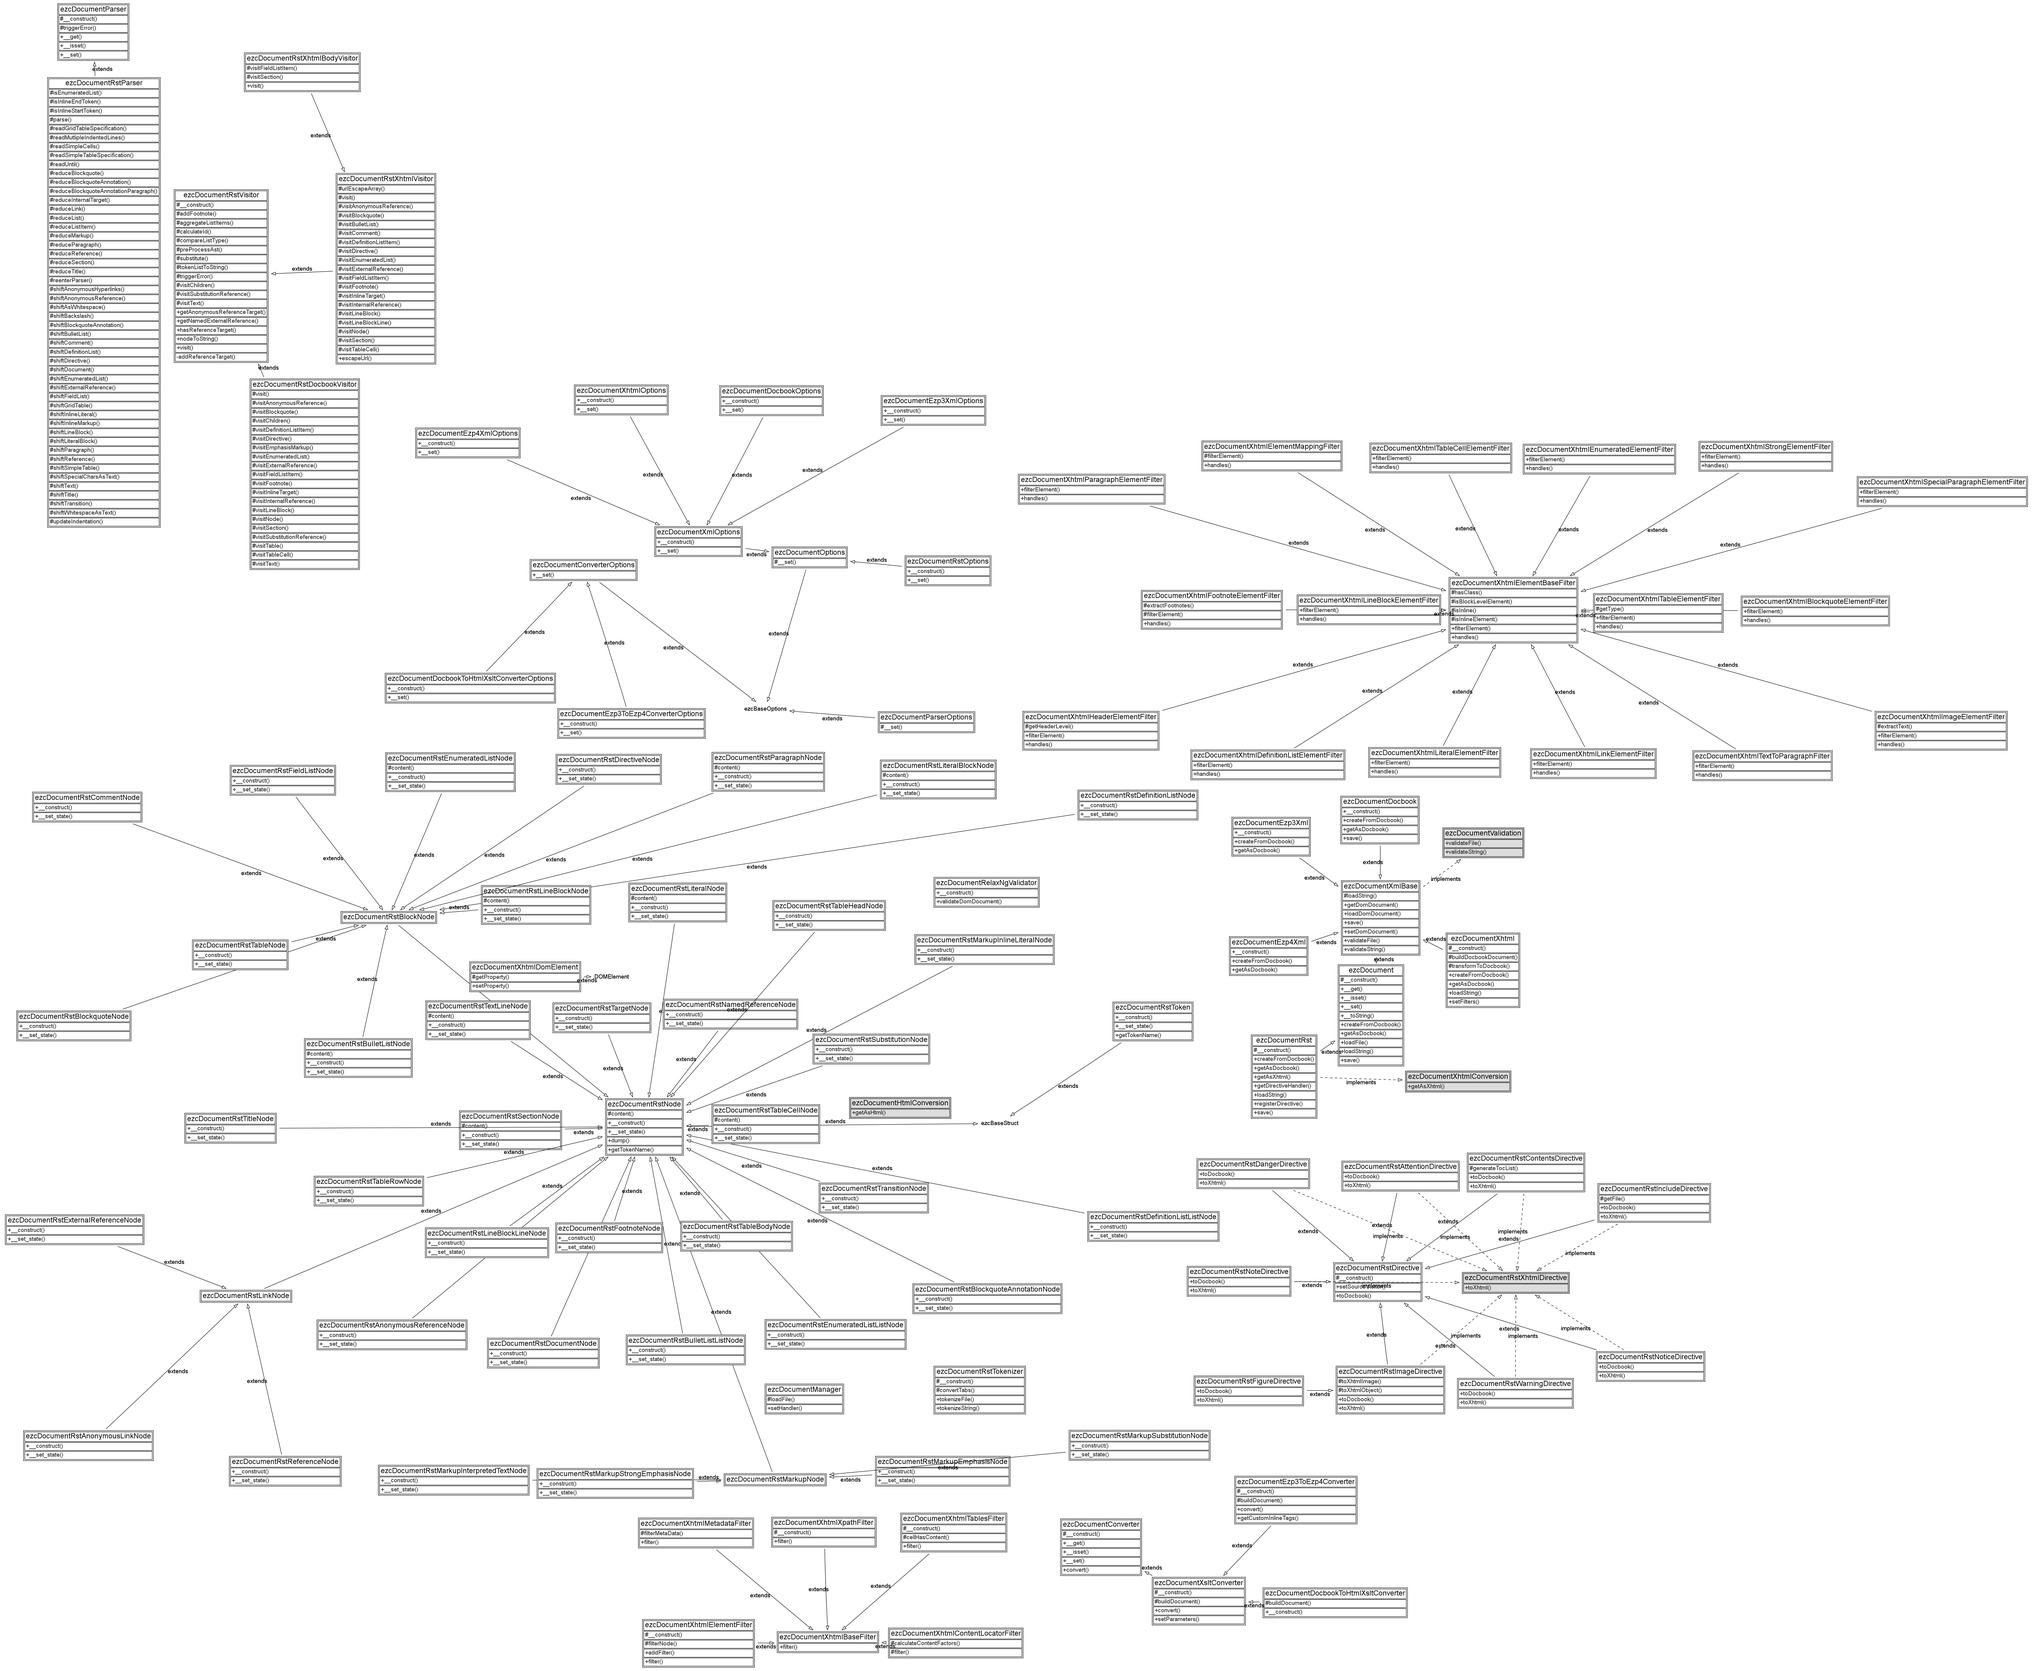
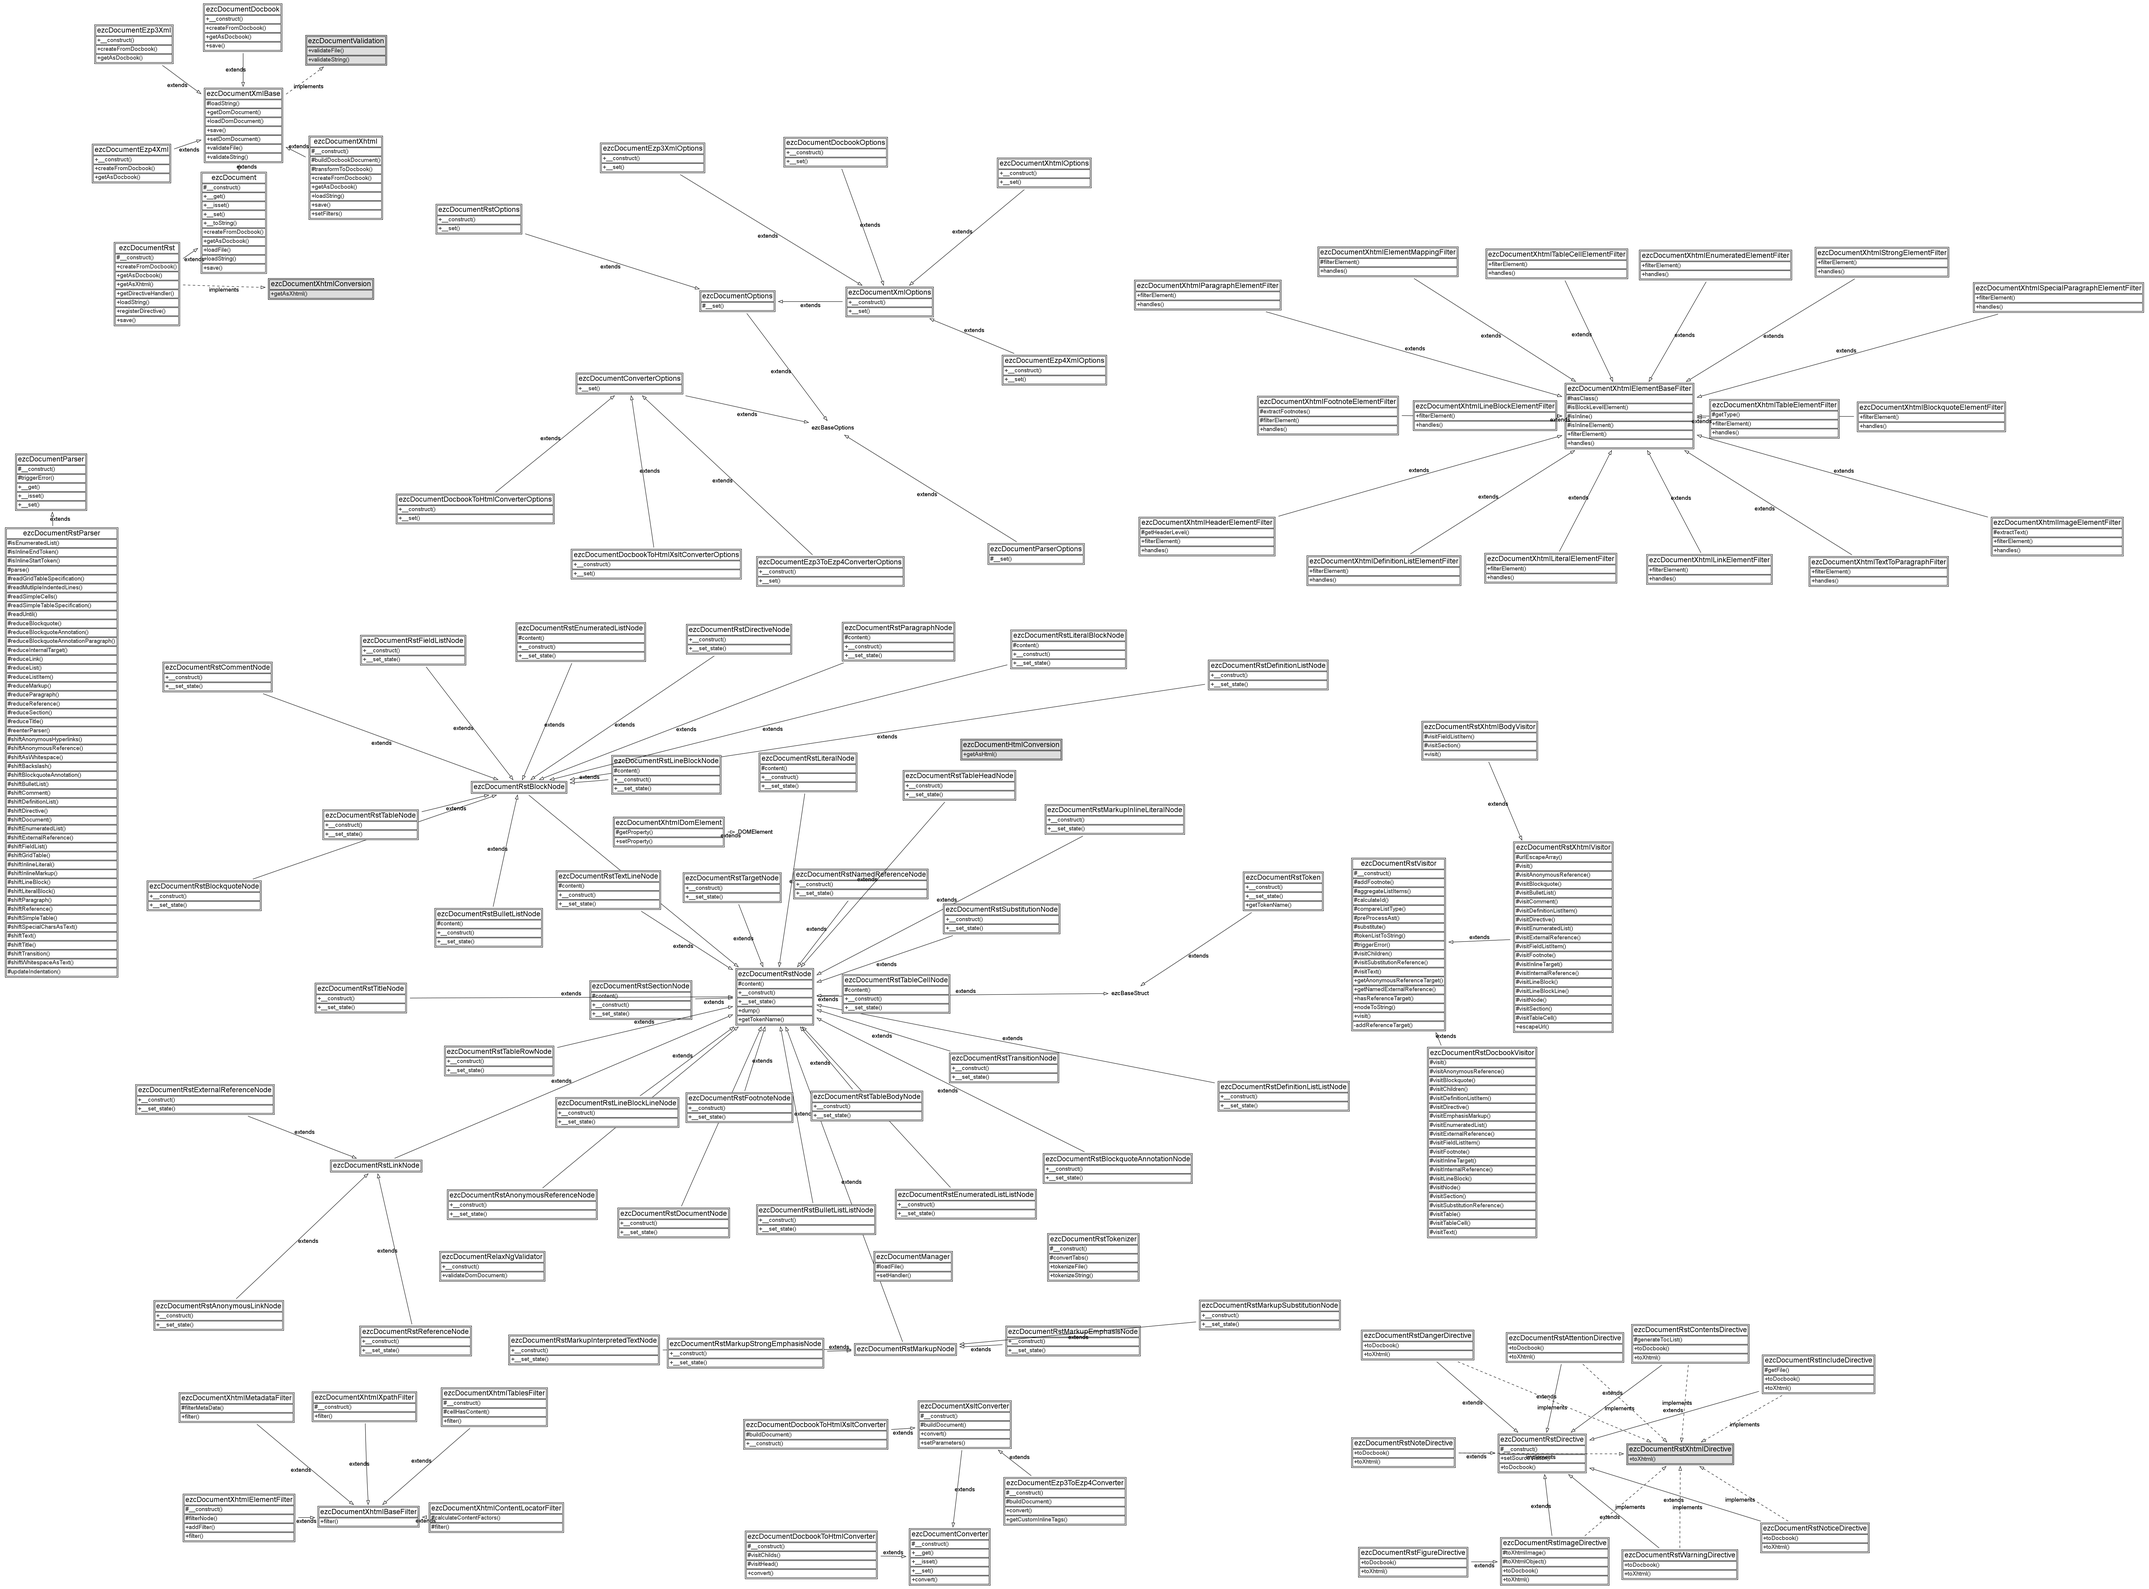
- Started implementation of callback based docbook to XHtml transformation
git-svn-id: https://svn.apache.org/repos/asf/incubator/zetacomponents/trunk@976067 13f79535-47bb-0310-9956-ffa450edef68

diff --git a/Document/tests/files/xhtml/docbook_custom/s_002_titles.html b/Document/tests/files/xhtml/docbook_custom/s_002_titles.html
@@ -1,0 +1,2 @@
+<?xml version="1.0"?>
+<html xmlns="http://www.w3.org/1999/xhtml"><head><meta name="generator" content="eZ Components; http://ezcomponents.org"/><title>Section Title 1</title></head><body><a name="section_title_1"/><h1>Section Title 1</h1><a name="section_title_2"/><h2>Section Title 2</h2><a name="section_title_3"/><h3>Section Title 3</h3><a name="section_title_4"/><h4>Section Title 4</h4><a name="section_title_5"/><h5>Section Title 5</h5><a name="section_title_6"/><h6 class="h6">Section Title 6</h6><a name="section_title_5"/><h5>Section Title 5</h5><a name="section_title_6"/><h6 class="h6">Section Title 6</h6><a name="section_title_7"/><h6 class="h7">Section Title 7</h6><a name="section_title_8"/><h6 class="h8">Section Title 8</h6><a name="section_title_7"/><h6 class="h7">Section Title 7</h6><a name="section_title_8"/><h6 class="h8">Section Title 8</h6><a name="section_title_9"/><h6 class="h9">Section Title 9</h6><a name="section_title_10"/><h6 class="h10">Section Title 10</h6><a name="section_title_11"/><h6 class="h11">Section Title 11</h6><a name="section_title_3"/><h3>Section Title 3</h3><a name="section_title_4"/><h4>Section Title 4</h4><a name="section_title_5"/><h5>Section Title 5</h5></body></html>

diff --git a/Document/tests/files/xhtml/docbook_custom/s_001_empty.html b/Document/tests/files/xhtml/docbook_custom/s_001_empty.html
@@ -1,0 +1,2 @@
+<?xml version="1.0"?>
+<html xmlns="http://www.w3.org/1999/xhtml"><head><meta name="generator" content="eZ Components; http://ezcomponents.org"/></head><body/></html>

diff --git a/Document/src/converters/docbook_html.php b/Document/src/converters/docbook_html.php
@@ -1,0 +1,213 @@
+<?php
+
+/**
+ * File containing the ezcDocumentXsltConverter class
+ *
+ * @package Document
+ * @version //autogen//
+ * @copyright Copyright (C) 2005-2008 eZ systems as. All rights reserved.
+ * @license http://ez.no/licenses/new_bsd New BSD License
+ */
+
+/**
+ * Converter for docbook to XHtml with a PHP callback based mechanism, for fast
+ * and easy PHP based extensible transformations.
+ *
+ * This converter does not support the full docbook standard, but only a subset
+ * commonly used in the document component. If you need to transform documents
+ * using the full docbook you might prefer to use the
+ * ezcDocumentDocbookToHtmlXsltConverter with the default stylesheet from
+ * Welsh.
+ * 
+ * @package Document
+ * @version //autogen//
+ */
+class ezcDocumentDocbookToHtmlConverter extends ezcDocumentConverter
+{
+    protected $visitorCallback = array(
+        'sect1info'   => 'visitHead',
+        'sect2info'   => 'visitHead',
+        'sect3info'   => 'visitHead',
+        'sect4info'   => 'visitHead',
+        'sect5info'   => 'visitHead',
+        'sectioninfo' => 'visitHead',
+        'sect1'       => 'visitSection',
+        'sect2'       => 'visitSection',
+        'sect3'       => 'visitSection',
+        'sect4'       => 'visitSection',
+        'sect5'       => 'visitSection',
+        'section'     => 'visitSection',
+        'title'       => 'visitTitle',
+    );
+
+    protected $html;
+
+    protected $head;
+
+    protected $level = 0;
+
+    /**
+     * Construct converter
+     *
+     * Construct converter from XSLT file, which is used for the actual
+     * 
+     * @param string $xslt 
+     * @return void
+     */
+    public function __construct( ezcDocumentDocbookToHtmlConverterOptions $options = null )
+    {
+        $this->options = ( $options === null ?
+            new ezcDocumentDocbookToHtmlConverterOptions() :
+            $options );
+    }
+
+    /**
+     * Convert documents between two formats
+     * 
+     * Convert documents of the given type to the requested type.
+     *
+     * @param ezcDocumentXmlBase $doc 
+     * @return ezcDocumentXhtml
+     */
+    public function convert( $doc )
+    {
+        $this->html = new DOMDocument();
+
+        $root = $this->html->createElementNs( 'http://www.w3.org/1999/xhtml', 'html' );
+        $this->html->appendChild( $root );
+
+        $this->head = $this->html->createElement( 'head' );
+        $root->appendChild( $this->head );
+
+        $generator = $this->html->createElement( 'meta' );
+        $generator->setAttribute( 'name', 'generator' );
+        $generator->setAttribute( 'content', 'eZ Components; http://ezcomponents.org' );
+        $this->head->appendChild( $generator );
+
+        $body = $this->html->createElement( 'body' );
+        $root->appendChild( $body );
+
+        $this->visitChilds( $doc->getDomDocument(), $body );
+
+        $html = new ezcDocumentXhtml();
+        $html->setDomDocument( $this->html );
+        return $html;
+    }
+
+    /**
+     * Recursively visit childs of a document node.
+     * 
+     * Recurse through the whole document tree and call the defined callbacks
+     * for node transformations, defined in the class property
+     * $visitorCallback.
+     *
+     * @param DOMNode $node 
+     * @param DOMElement $root 
+     * @return void
+     */
+    protected function visitChilds( DOMNode $node, DOMElement $root )
+    {
+        // Recurse into child elements
+        foreach ( $node->childNodes as $child )
+        {
+            switch ( $child->nodeType )
+            {
+                case XML_ELEMENT_NODE:
+                    if ( isset( $this->visitorCallback[$child->tagName] ) )
+                    {
+                        $callback = $this->visitorCallback[$child->tagName];
+                        $newRoot = $this->$callback( $child, $root );
+                    }
+                    else
+                    {
+                        // Recurse into element childs
+                        $this->visitChilds( $child, $root );
+                    }
+                    break;
+
+                case XML_TEXT_NODE:
+                    // Skip pure whitespace text nodes
+                    if ( trim( $child->wholeText ) !== '' )
+                    {
+                        $text = new DOMText( $child->wholeText );
+                        $root->appendChild( $text );
+                    }
+                    break;
+            }
+        }
+    }
+
+    /**
+     * Visit docbook sectioninfo elements
+     *
+     * The sectioninfo elements contain metadata about the document or
+     * sections, which are transformed into the respective metadata in the HTML
+     * header.
+     * 
+     * @param DOMElement $element 
+     * @param DOMElement $root 
+     * @return void
+     */
+    protected function visitHead( DOMElement $element, DOMElement $root )
+    {
+        // @TODO: Implement
+    }
+
+    /**
+     * Visit docbook sections
+     *
+     * Updates the docbook sections, which give us information about the depth
+     * in the document, and may also be reference targets.
+     * 
+     * @param DOMElement $element 
+     * @param DOMElement $root 
+     * @return void
+     */
+    protected function visitSection( DOMElement $element, DOMElement $root )
+    {
+        ++$this->level;
+
+        // Set internal cross reference target if section has an ID assigned
+        if ( $element->hasAttribute( 'id' ) )
+        {
+            $target = $this->html->createElement( 'a' );
+            $target->setAttribute( 'name', $element->getAttribute( 'id' ) );
+            $root->appendChild( $target );
+        }
+
+        $this->visitChilds( $element, $root );
+        --$this->level;
+    }
+
+    /**
+     * Visit docbook title elements
+     *
+     * Title elements are commonly the first element in sections and define
+     * sectionm titles, which are converted to HTML header elements of the
+     * respective level of indentation
+     * 
+     * @param DOMElement $element 
+     * @param DOMElement $root 
+     * @return void
+     */
+    protected function visitTitle( DOMElement $element, DOMElement $root )
+    {
+        // Also set the document title from the first heading
+        if ( $this->level === 1 )
+        {
+            $title = $this->html->createElement( 'title', htmlspecialchars( trim( $element->textContent ) ) );
+            $this->head->appendChild( $title );
+        }
+
+        // Create common HTML headers
+        $header = $this->html->createElement( 'h' . min( 6, $this->level ) );
+        if ( $this->level >= 6 )
+        {
+            $header->setAttribute( 'class', 'h' . $this->level );
+        }
+        $root->appendChild( $header );
+        $this->visitChilds( $element, $header );
+    }
+}
+
+?>

diff --git a/Document/tests/converter_docbook_html_test.php b/Document/tests/converter_docbook_html_test.php
@@ -1,0 +1,89 @@
+<?php
+/**
+ * ezcDocumentConverterEzp3TpEzp4Tests
+ * 
+ * @package Document
+ * @version //autogen//
+ * @subpackage Tests
+ * @copyright Copyright (C) 2005-2007 eZ systems as. All rights reserved.
+ * @license http://ez.no/licenses/new_bsd New BSD License
+ */
+
+/**
+ * Test suite for class.
+ * 
+ * @package Document
+ * @subpackage Tests
+ */
+class ezcDocumentConverterDocbookToHtmlTests extends ezcTestCase
+{
+    protected static $testDocuments = null;
+
+    public static function suite()
+    {
+        return new PHPUnit_Framework_TestSuite( __CLASS__ );
+    }
+
+    public static function getTestDocuments()
+    {
+        if ( self::$testDocuments === null )
+        {
+            // Get a list of all test files from the respektive folder
+            $testFiles = glob( dirname( __FILE__ ) . '/files/xhtml/docbook_custom/s_*.xml' );
+
+            // Create array with the test file and the expected result file
+            foreach ( $testFiles as $file )
+            {
+                self::$testDocuments[] = array(
+                    $file,
+                    substr( $file, 0, -3 ) . 'html'
+                );
+            }
+        }
+
+//        return self::$testDocuments;
+        return array_slice( self::$testDocuments, 0, 2 );
+    }
+
+    /**
+     * @dataProvider getTestDocuments
+     */
+    public function testLoadXmlDocumentFromFile( $from, $to )
+    {
+        if ( !is_file( $to ) )
+        {
+            $this->markTestSkipped( "Comparision file '$to' not yet defined." );
+        }
+
+        $doc = new ezcDocumentDocbook();
+        $doc->loadFile( $from );
+
+        $converter = new ezcDocumentDocbookToHtmlConverter();
+        $created = $converter->convert( $doc );
+
+        $this->assertTrue(
+            $created instanceof ezcDocumentXhtml
+        );
+
+        // Replace creator string in generated document, as this may change too
+        // often for proper testing.
+        $dom = $created->getDomDocument();
+
+        // Store test file, to have something to compare on failure
+        $tempDir = $this->createTempDir( 'docbook_html_custom_' ) . '/';
+        file_put_contents( $tempDir . basename( $to ), $created->getDomDocument()->saveXml() );
+
+        $dest = new DOMDocument();
+        $dest->load( $to );
+
+        $this->assertEquals(
+            $dest,
+            $created->getDomDocument()
+        );
+
+        // Remove tempdir, when nothing failed.
+        $this->removeTempDir();
+    }
+}
+
+?>

diff --git a/Document/src/options/converter_docbook_html_xslt.php b/Document/src/options/converter_docbook_html_xslt.php
@@ -24,7 +24,7 @@
  * @package Document
  * @version //autogen//
  */
-class ezcDocumentDocbookToHtmlConverterOptions extends ezcDocumentConverterOptions
+class ezcDocumentDocbookToHtmlXsltConverterOptions extends ezcDocumentConverterOptions
 {
     /**
      * Constructs an object with the specified values.
@@ -37,13 +37,12 @@ class ezcDocumentDocbookToHtmlConverterOptions extends ezcDocumentConverterOptio
      */
     public function __construct( array $options = array() )
     {
-        /*
         $this->xslt       = 'http://docbook.sourceforge.net/release/xsl/current/html/docbook.xsl';
         $this->parameters = array(
             '' => array(
                 'make.valid.html' => '1',
             ),
-        ); // */
+        );
 
         parent::__construct( $options );
     }
@@ -63,7 +62,6 @@ class ezcDocumentDocbookToHtmlConverterOptions extends ezcDocumentConverterOptio
     {
         switch ( $name )
         {
-            /*
             case 'xslt':
                 $this->properties[$name] = (string) $value;
                 break;
@@ -76,7 +74,6 @@ class ezcDocumentDocbookToHtmlConverterOptions extends ezcDocumentConverterOptio
 
                 $this->properties[$name] = $value;
                 break;
-            // */
 
             default:
                 parent::__set( $name, $value );

diff --git a/Document/src/document_autoload.php b/Document/src/document_autoload.php
@@ -39,8 +39,10 @@ return array(
     'ezcDocumentXsltConverter'                      => 'Document/converters/xslt.php',
     'ezcDocumentDocbook'                            => 'Document/document/xml/docbook.php',
     'ezcDocumentDocbookOptions'                     => 'Document/options/document_docbook.php',
+    'ezcDocumentDocbookToHtmlConverter'             => 'Document/converters/docbook_html.php',
+    'ezcDocumentDocbookToHtmlConverterOptions'      => 'Document/options/converter_docbook_html.php',
     'ezcDocumentDocbookToHtmlXsltConverter'         => 'Document/converters/xslt/docbook_html.php',
-    'ezcDocumentDocbookToHtmlXsltConverterOptions'  => 'Document/options/converter_docbook_html.php',
+    'ezcDocumentDocbookToHtmlXsltConverterOptions'  => 'Document/options/converter_docbook_html_xslt.php',
     'ezcDocumentEzp3ToEzp4Converter'                => 'Document/converters/xslt/ezp3_ezp4.php',
     'ezcDocumentEzp3ToEzp4ConverterOptions'         => 'Document/options/converter_ezp3_ezp4.php',
     'ezcDocumentEzp3Xml'                            => 'Document/document/xml/ezp3.php',
